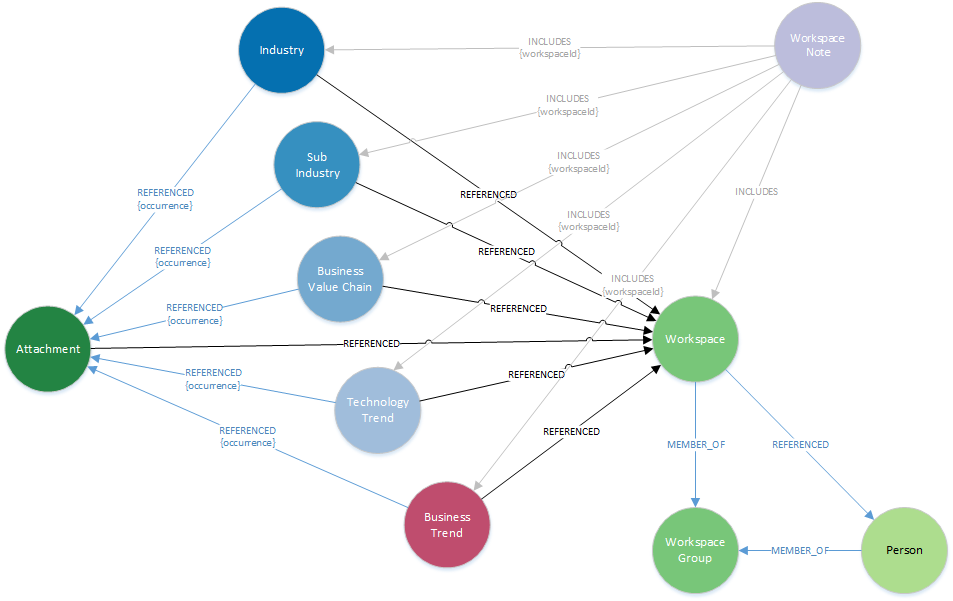
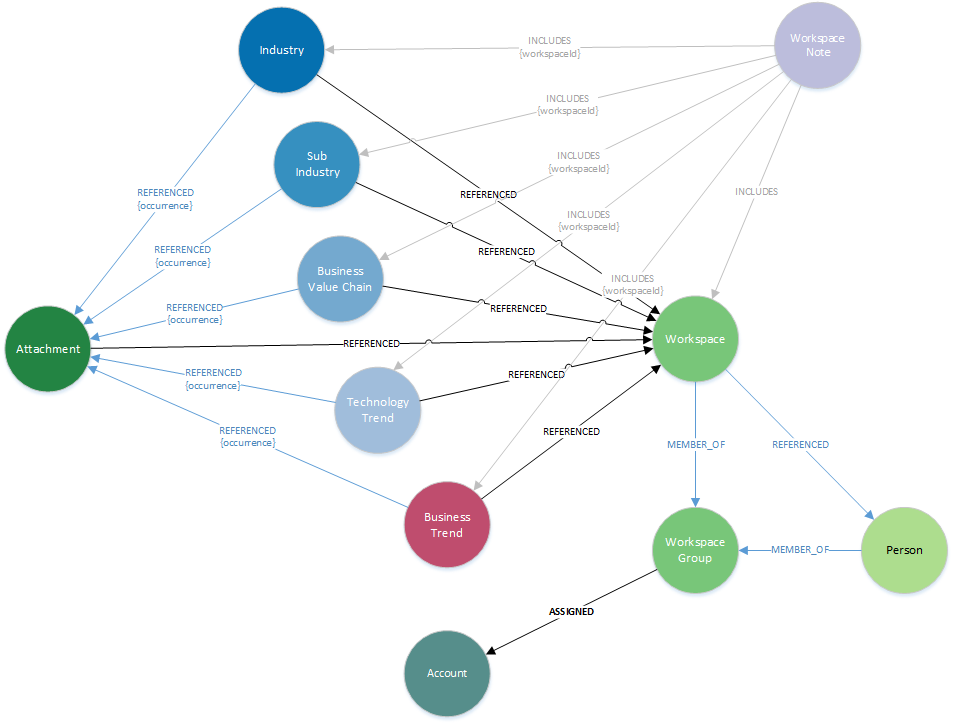
:pencil: Workspaces and accounts

diff --git a/training/Workspaces/WorkspaceSetupGroups.md b/training/Workspaces/WorkspaceSetupGroups.md
@@ -4,12 +4,16 @@
 
 Within your workspace group you have the following options
 
-- Name :
+- Workgroup Name
+- Associated Accounts
 - Public Group : Yes/No
 - Members and Roles
 
    <br>![image](images/WorkspaceGroups1.png)<br><br>
 
+
+:bulb: you can only associate accounts to workgroup to which you have a role.<br>
+:bulb: Other members of the workgroup do not need to be members of the account<br>
 If a group is public, all users of DXC Digital Explorer can use the workspaces within the group as a source for the **Compare** feature
 <br><br>
 Only **members** can add or edit workspaces within a group

diff --git a/MetaModels/WorkspaceMetaModel.md b/MetaModels/WorkspaceMetaModel.md
@@ -42,6 +42,7 @@
 
 |Source|Destination|Name|Properties|
 |----|----|----|----|
+|WorkspaceGroup|Account|ASSIGNED|
 |Person|WorkspaceGroup|MEMBER_OF|role
 |Workspace|WorkspaceGroup|MEMBER_OF|
 |Person|Workspace|REFERENCED
